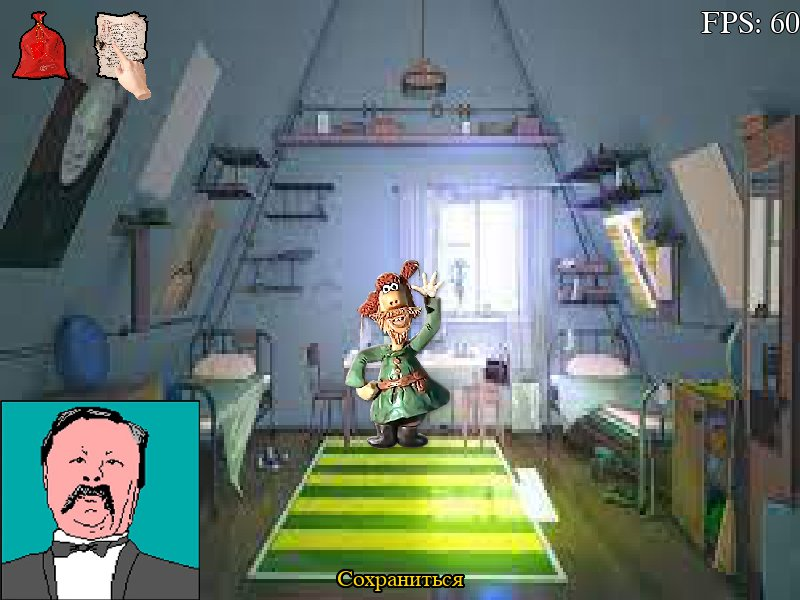
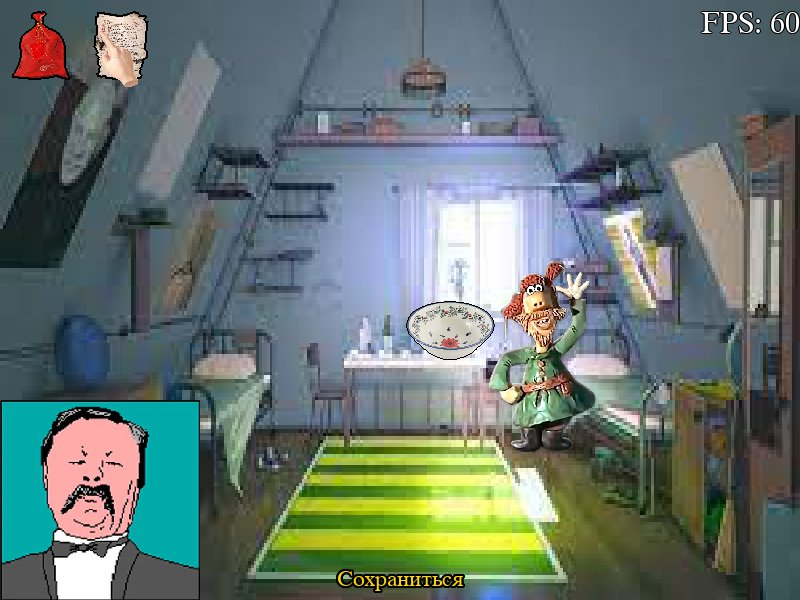
saves fixed

Changed region(s): [[0.4375, 0.42, 0.75, 0.75], [0.125, 0.06, 0.1875, 0.18], [0.0938, 0.75, 0.1562, 0.78]]

diff --git a/Frames/SavesFrame.py b/Frames/SavesFrame.py
@@ -5,6 +5,7 @@ import Utils.Settings as Settings
 import Utils.Saves as Saves
 import shutil
 from Utils.Assets import get_screenshot
+import datetime
 
 class SavesFrame(NonGameFrame):
     def __init__(self):
@@ -45,10 +46,16 @@ class SavesFrame(NonGameFrame):
             Saves.save_game(slot_index)
 
             screenshot = pygame.transform.scale(get_res("screenshot"), (self.active_slot.pic_w-16, self.active_slot.pic_h-16))
-            self.active_slot.set_screenshot(screenshot)
             screenshot_filename = "screenshots/screenshot_" + str(slot_index) + ".jpg"
             shutil.copy2("tmp/screenshot.jpg", screenshot_filename)
-            Settings.saves_screenshots[slot_index] = screenshot_filename
+
+            date = datetime.datetime.now()
+            date_format = date.strftime("%x %X")
+
+            self.active_slot.set_screenshot(screenshot)
+            self.active_slot.set_date(date_format)
+
+            Settings.saves[str(slot_index)] = [screenshot_filename, date_format]
             Saves.save_settings()
 
             self.active_slot.set_active(False)
@@ -68,8 +75,13 @@ class SavesFrame(NonGameFrame):
         self.save_slots = []
         for i in range(0, 2):
             for j in range(0, 4):
-                screenshot= get_screenshot(Settings.saves_screenshots[j + i * 4]) if Settings.saves_screenshots[j + i * 4] is not None else get_res("saves_void_save_pic")
-                self.save_slots.append(SaveSlot((50 + j*175, 140 + i*130), (165, 120), (165, 100), screenshot, get_res("saves_outline_pic"), "пусто", self.set_active_slot, self.buttons_group))
+                if str(i*4 + j) in Settings.saves.keys():
+                    screenshot = get_screenshot(Settings.saves[str(i*4 + j)][0])
+                    date = Settings.saves[str(i*4 + j)][1]
+                else:
+                    screenshot = get_res("saves_void_save_pic")
+                    date = "пусто"
+                self.save_slots.append(SaveSlot((50 + j*175, 120 + i*140), (150, 130), (150, 110), screenshot, get_res("saves_outline_pic"), date, self.set_active_slot, self.buttons_group))
 
         Button(("center", 420), (300, 70), "сохранить_игру", ButtonDesignParams(self.background, btn_pic, btn_pic, btn_hover_snd, btn_click_snd, 22), self.save_game, self.buttons_group)
         Button((575, 525), (200, 50), "вернуться", ButtonDesignParams(self.background, btn_pic, btn_pic, btn_hover_snd, btn_click_snd), self.goto_menu, self.buttons_group)

diff --git a/Frames/GameFrame.py b/Frames/GameFrame.py
@@ -10,13 +10,13 @@ import Frames.SaveMenuFrame as SaveMenuFrame
 import os
 
 class GameFrameData:
-    def __init__(self, background_color, background_pic, player_pos, perspective, items_data):
+    def __init__(self, background_color, background_pic, player_pos, perspective, items_loc_data):
         self.background_color = background_color
-        self.background_pic = background_pic
-        self.background_pic = pygame.transform.scale(background_pic, (Config.screen_width, Config.screen_height))
+        self.background_pic = get_res(background_pic)
+        self.background_pic = pygame.transform.scale(self.background_pic, (Config.screen_width, Config.screen_height))
         self.player_pos = player_pos
         
-        self.items_data = items_data
+        self.items_data = items_loc_data
 
         self.perspective = perspective
 
@@ -111,6 +111,8 @@ class GameFrame(Frame):
         Settings.player_pos = self.player.get_pos()
         Settings.last_scene_id = self.id
         Settings.inventory_items = self.inventory_items
+        if not os.path.exists("tmp"):
+            os.mkdir("tmp")
         pygame.image.save(self.app.screen, "tmp/screenshot.jpg")
 
     def post_init(self, app):
@@ -124,8 +126,8 @@ class GameFrame(Frame):
         
         for i in range(0, len(self.data.items_data)):
             if Settings.items_pickedup[self.id][i]: continue
-            item_id = self.data.items_data[i]
-            self.items.append(Item(item_id, self.show_tip, self.clear_tip, self.pickup_item, None, self.item_group)) 
+            item_data = self.data.items_data[i]
+            self.items.append(Item(item_data, self.show_tip, self.clear_tip, self.pickup_item, None, self.item_group)) 
 
         self.inventory_btn = PictureButton((10, 10), (60, 70), "scene_open_inventory_btn_def_pic", "scene_open_inventory_btn_hover_pic", "Открыть инвентарь", self.open_inventory, self.show_tip, self.clear_tip, self.game_group)
         self.save_btn = PictureButton((90, 10), (60, 70), "scene_save_btn_def_pic", "scene_save_btn_hover_pic", "Сохраниться", self.goto_saves_menu, self.show_tip, self.clear_tip, self.game_group)

diff --git a/Utils/Saves.py b/Utils/Saves.py
@@ -1,5 +1,5 @@
 import json
-from os import close
+import os
 import Utils.Settings as Settings
 import Utils.Config as Config
 
@@ -30,27 +30,39 @@ def load_save(save_num: int):
     Settings.inventory_items = progress["inventory_items"]
 
 def load_settings():
-    f = open("saves/settings.json", "r")
+    if os.path.isfile("saves/settings.json"):
+        f = open("saves/settings.json", "r")
 
-    settings_json = f.read()
-    f.close()
-    settings = json.loads(settings_json)
+        settings_json = f.read()
+        f.close()
+        settings = json.loads(settings_json)
 
-    Config.current_local = settings["current_local"]
-    Settings.music_volume = settings["music_volume"]
-    Settings.sound_volume = settings["sound_volume"]
-    Settings.lang_options = settings["lang_options"]
-    Settings.saves_screenshots = settings["saves_screenshots"]
+        current_local = settings["current_local"]
+        if current_local == "chi": Config.current_local = Config.local_chi
+        elif current_local == "lat": Config.current_local = Config.local_lat
+        else: Config.current_local = Config.local_rus
+        Settings.music_volume = settings["music_volume"]
+        Settings.sound_volume = settings["sound_volume"]
+        Settings.lang_options = settings["lang_options"]
+        Settings.saves = settings["saves"]
 
 def save_settings():
     f = open("saves/settings.json", "w")
 
+    current_local = None
+    if Config.current_local == Config.local_rus:
+        current_local = "rus"
+    elif Config.current_local == Config.local_chi:
+        current_local = "chi"
+    elif Config.current_local == Config.local_lat:
+        current_local = "lat"
+
     settings = {
-        "current_local": Config.current_local,
+        "current_local": current_local,
         "music_volume": Settings.music_volume,
         "sound_volume": Settings.sound_volume,
         "lang_options": Settings.lang_options,
-        "saves_screenshots": Settings.saves_screenshots
+        "saves": Settings.saves
     }
     settings_json = json.dumps(settings)
 

diff --git a/Utils/Config.py b/Utils/Config.py
@@ -1,4 +1,3 @@
-import Utils.Assets as Assets
 import Perspective
 
 local_rus = {
@@ -151,23 +150,23 @@ helper_motivational_phrase_freq = 10000
 
 current_local = local_rus
 
-items_ids = {
-    "mandarin": ((562, 319), (80, 80), Assets.get_res("menu_slider_circle_pic"), (544, 453), "Мандарин - царь фруктов"),
-    "plate": ((405, 300), (90, 60), Assets.get_res("item_plate_pic"), (398, 450), "Тарелка разукрашенная")
-}
-
-inventory_items_ids = {
-    "mandarin": ((30, 30), Assets.get_res("menu_slider_circle_pic"), "Мандарин - царь фруктов"),
-    "plate": ((40, 30), Assets.get_res("item_plate_pic"), "Тарелка разукрашенная")
-}
-
 items_data = {
+    "mandarin": ((80, 80), "menu_slider_circle_pic", "Мандарин - царь фруктов"),
+    "plate": ((90, 60), "item_plate_pic", "Тарелка разукрашенная")
+}
+
+inventory_items_data = {
+    "mandarin": ((30, 30), "menu_slider_circle_pic", "Мандарин - царь фруктов"),
+    "plate": ((40, 30), "item_plate_pic", "Тарелка разукрашенная")
+}
+
+items_in_location = {
     "summer": (
-            "mandarin",
-            "plate"
-        )
+            ("mandarin", (562, 319), (544, 453)),
+            ("plate", (405, 300), (398, 450))
+    )
 }
 
 scenes_data = {
-    "summer": ((0, 0, 0), Assets.get_res("scene_field_background_pic"), (500, 600), Perspective.TrapezoidPerspective(screen_height, 440, 50, 750, 185, 615), items_data["summer"])
+    "summer": ((0, 0, 0), "scene_field_background_pic", (500, 600), Perspective.TrapezoidPerspective(screen_height, 440, 50, 750, 185, 615), items_in_location["summer"])
 }

diff --git a/Inventory.py b/Inventory.py
@@ -8,7 +8,8 @@ class InventoryItem(pygame.sprite.Sprite):
 
         self.id = id
         self.x, self.y = pos
-        self.size, self.pic, self.tip = Config.inventory_items_ids[id]
+        self.size, self.pic, self.tip = Config.inventory_items_data[id]
+        self.pic = get_res(self.pic)
         self.pic = pygame.transform.scale(self.pic, self.size)
 
         self.rect = pygame.rect.Rect((self.x, self.y), self.size)
@@ -38,7 +39,7 @@ class InventorySlot(pygame.sprite.Sprite):
 
         self.contain_group = pygame.sprite.Group()
         if item_id is not None:
-            self.contain = InventoryItem((self.w//2 - Config.inventory_items_ids[item_id][0][0]//2, self.h//2 - Config.inventory_items_ids[item_id][0][1]//2), item_id, self.contain_group)
+            self.contain = InventoryItem((self.w//2 - Config.inventory_items_data[item_id][0][0]//2, self.h//2 - Config.inventory_items_data[item_id][0][1]//2), item_id, self.contain_group)
         else:
             self.contain = None
 
@@ -72,7 +73,7 @@ class InventorySlot(pygame.sprite.Sprite):
         self.contain_group.update()
 
     def put(self, item_id):
-        self.contain = InventoryItem((self.w//2 - Config.inventory_items_ids[item_id][0][0]//2, self.h//2 - Config.inventory_items_ids[item_id][0][1]//2), item_id, self.contain_group)
+        self.contain = InventoryItem((self.w//2 - Config.inventory_items_data[item_id][0][0]//2, self.h//2 - Config.inventory_items_data[item_id][0][1]//2), item_id, self.contain_group)
 
     def is_empty(self):
         return self.contain is None

diff --git a/Frames/LoadGameFrame.py b/Frames/LoadGameFrame.py
@@ -59,8 +59,13 @@ class LoadGameFrame(NonGameFrame):
         self.save_slots = []
         for i in range(0, 2):
             for j in range(0, 4):
-                screenshot= get_screenshot(Settings.saves_screenshots[j + i * 4]) if Settings.saves_screenshots[j + i * 4] is not None else get_res("saves_void_save_pic")
-                self.save_slots.append(SaveSlot((50 + j*175, 140 + i*130), (165, 120), (165, 100), screenshot, get_res("saves_outline_pic"), "пусто", self.set_active_slot, self.buttons_group))
+                if str(i*4 + j) in Settings.saves.keys():
+                    screenshot = get_screenshot(Settings.saves[str(i*4 + j)][0])
+                    date = Settings.saves[str(i*4 + j)][1]
+                else:
+                    screenshot = get_res("saves_void_save_pic")
+                    date = "пусто"
+                self.save_slots.append(SaveSlot((50 + j*175, 120 + i*140), (150, 130), (150, 110), screenshot, get_res("saves_outline_pic"), date, self.set_active_slot, self.buttons_group))
 
         Button(("center", 420), (300, 70), "загрузить_игру", ButtonDesignParams(self.background, btn_pic, btn_pic, btn_hover_snd, btn_click_snd, 22), self.load_game, self.buttons_group)
         Button((575, 525), (200, 50), "вернуться", ButtonDesignParams(self.background, btn_pic, btn_pic, btn_hover_snd, btn_click_snd), self.goto_menu, self.buttons_group)

diff --git a/Item.py b/Item.py
@@ -1,22 +1,24 @@
 import pygame
 import Utils.Config as Config
+from Utils.Assets import get_res
 
 class ItemData:
-    def __init__(self, pos, size, default_pic, player_pos, tip):
+    def __init__(self, pos, player_pos, size, default_pic, tip):
         self.x, self.y = pos
         self.w, self.h = size
 
-        self.default_pic = pygame.transform.scale(default_pic, (self.w, self.h))
+        self.default_pic = pygame.transform.scale(get_res(default_pic), (self.w, self.h))
         self.player_pos = player_pos
         
         self.tip = tip
 
 class Item(pygame.sprite.Sprite):
-    def __init__(self, id, on_focuse, on_lose_focuse, on_left_click, on_right_click, *groups):
+    def __init__(self, item_loc_data, on_focuse, on_lose_focuse, on_left_click, on_right_click, *groups):
         super().__init__(*groups)
 
-        self.id = id
-        self.data = ItemData(*Config.items_ids[id])
+        self.id = item_loc_data[0]
+        print(*item_loc_data[1:])
+        self.data = ItemData(*item_loc_data[1:], *Config.items_data[self.id])
 
         self.rect = pygame.rect.Rect((self.data.x, self.data.y), (self.data.w, self.data.h))
         self.image = pygame.Surface(self.rect.size, pygame.SRCALPHA, 32)

diff --git a/Widgets.py b/Widgets.py
@@ -526,7 +526,7 @@ class SaveSlot(pygame.sprite.Sprite):
 
         is_local = True if date == "пусто" else False
         self.desc_group = pygame.sprite.Group()
-        self.scene_name_label = Label(("center", self.pic_size[1]), date, is_local, 16, (self.w, self.h), (255, 255, 255), (0, 0, 0), 1, self.desc_group)
+        self.date_label = Label(("center", self.pic_size[1]), date, is_local, 16, (self.w, self.h), (255, 255, 255), (0, 0, 0), 1, self.desc_group)
 
         self.rect = pygame.rect.Rect(pos, size)
         self.image = pygame.Surface(size, pygame.SRCALPHA, 32)
@@ -576,6 +576,11 @@ class SaveSlot(pygame.sprite.Sprite):
 
     def set_screenshot(self, new_screenshot):
         self.screenschot_pic = new_screenshot
+    
+    def set_date(self, new_date):
+        self.date = new_date
+        self.date_label.text = new_date
+        self.date_label.isLocal = True if self.date == "пусто" else False
 
     def is_void(self):
         return self.screenshot_pic_data == get_res("saves_void_save_pic")

diff --git a/Frames/MenuFrame.py b/Frames/MenuFrame.py
@@ -33,13 +33,6 @@ class MenuFrame(NonGameFrame):
         self.helper.save_blink_timer()
         self.helper.quit_threads()
 
-        items_data = (
-            ItemData((562, 319), (80, 80), get_res("menu_slider_circle_pic"), (544, 453), "Мандарин - царь фруктов"),
-            ItemData((405, 300), (90, 60), get_res("item_plate_pic"), (398, 450), "Тарелка разукрашенная")
-        )
-        
-        scene_data = GameFrame.GameFrameData((0, 0, 0), get_res("scene_field_background_pic"), (500, 600), TrapezoidPerspective(Config.screen_height, 440, 50, 750, 185, 615), items_data)
-        #scene_data = GameFrame.GameFrameData((0, 0, 0), get_res("scene_field_background_pic"), (300, 300), None, items_data)
         self.app.reload_frame(GameFrame.GameFrame("summer"))
         Settings.prev_frame = MenuFrame
 

diff --git a/App.py b/App.py
@@ -6,6 +6,7 @@ from Utils.Assets import get_res
 import Utils.Config as Config
 import Utils.Settings as Settings
 import Utils.Saves as Saves
+import os
 
 class App:
     def __init__(self, loaded_frame: Frame, start_size=(200, 200)):
@@ -66,6 +67,10 @@ class App:
 
     def quit(self):
         self.run = False
+        # удаление временных файлов
+        if os.path.exists("tmp"):
+            if os.path.isfile("tmp/screenshot.jpg"): os.remove("tmp/screenshot.jpg")
+            os.rmdir("tmp")   
     
     def reload_frame(self, new_frame: Frame):
         self.loaded_frame = new_frame

diff --git a/Utils/Settings.py b/Utils/Settings.py
@@ -11,10 +11,7 @@ helper_blink_timer = 0
 menu_first_time = True
 settings_first_time = True
 
-saves_screenshots = [
-    None, None, None, None,
-    None, None, None, None
-]
+saves = {}
 
 # SCENES STATE
 last_scene_id = ""
